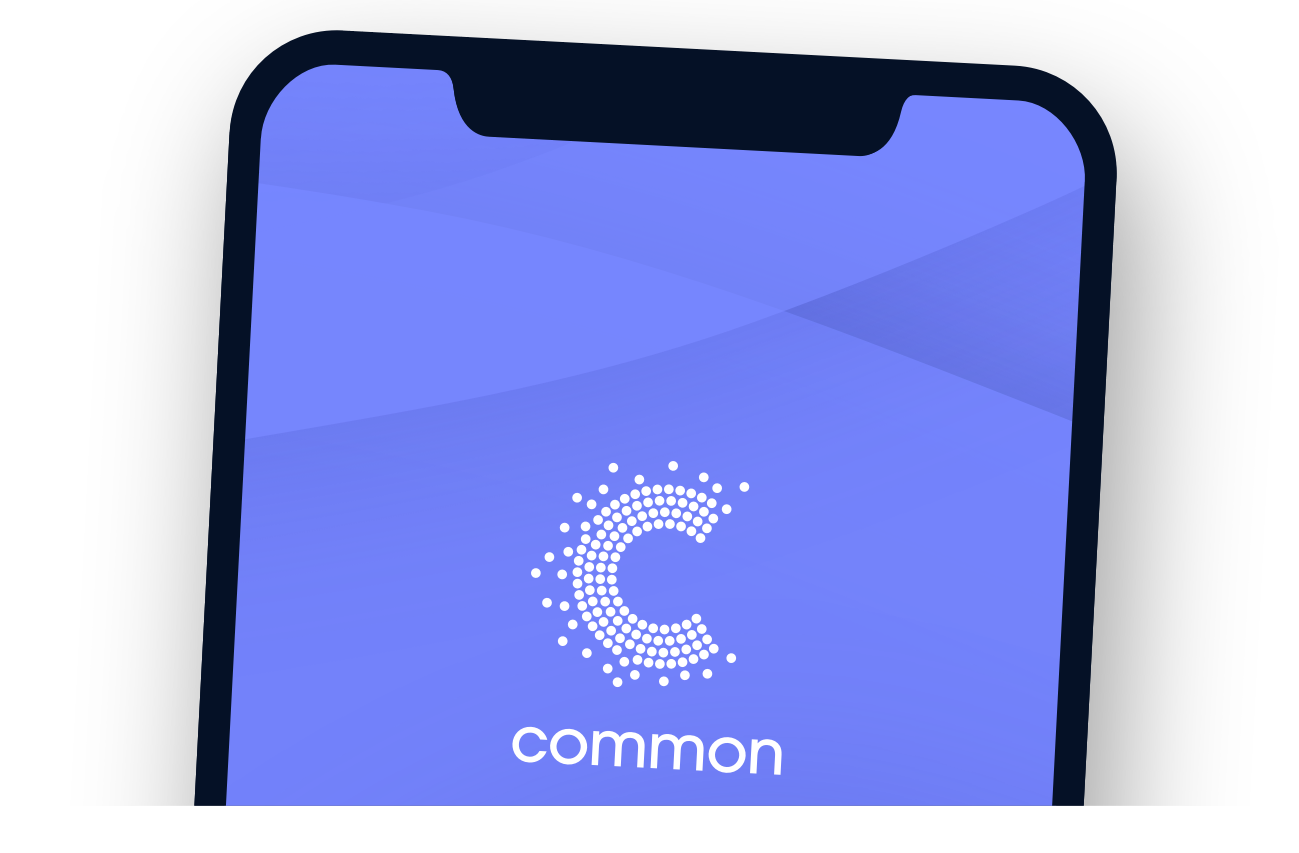
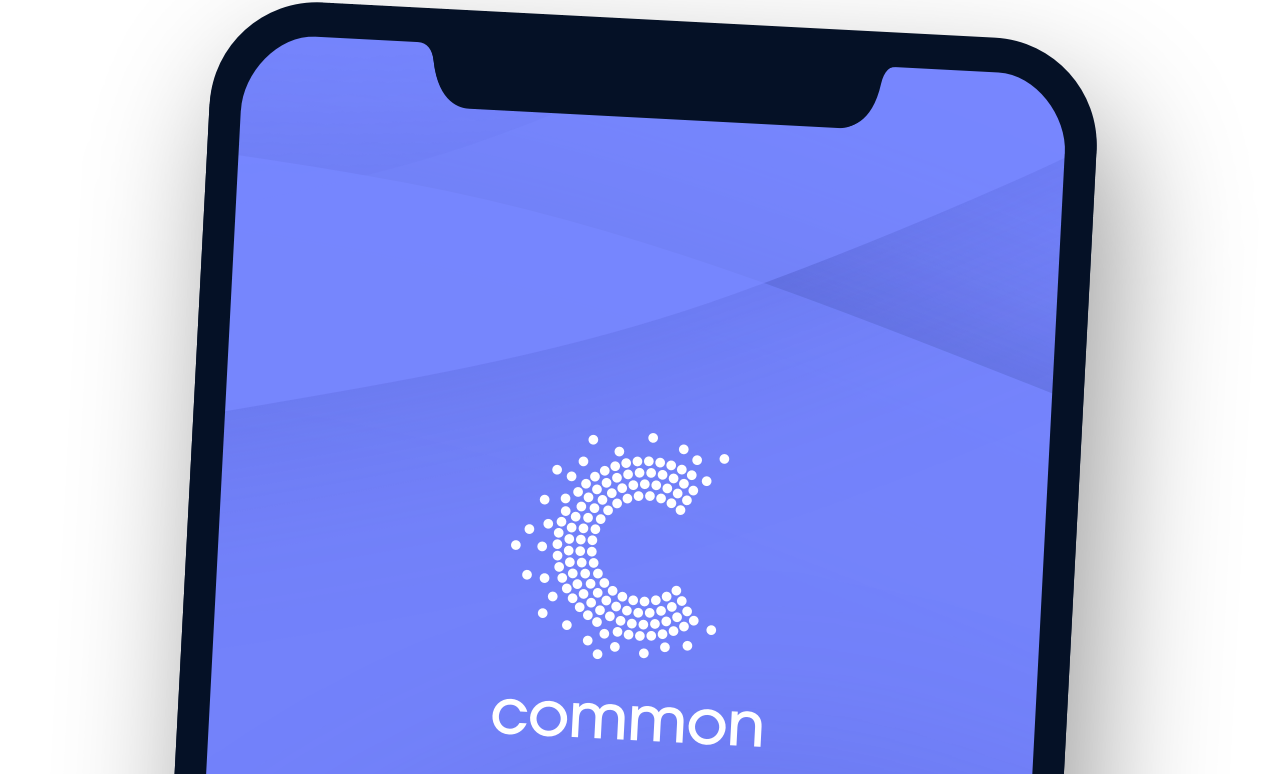
updates

Changed region(s): [[0.0927, 0.0, 0.8962, 1.0], [0.3399, 0.124, 0.6799, 0.186]]

diff --git a/packages/web/src/containers/Landing/containers/LandingContainer/LandingContainer.tsx b/packages/web/src/containers/Landing/containers/LandingContainer/LandingContainer.tsx
@@ -20,7 +20,7 @@ const LandingContainer = () => {
           <h1>
             Launch Collective Action. <br />
             <span className="pink-text">Catalyze a movement</span>
-            <br /> together.
+            <br /> Together.
           </h1>
           <div className="mobile-apps-wrapper">
             <div className="available-on-label">Available on</div>
@@ -44,21 +44,21 @@ const LandingContainer = () => {
         <div className="illustrations-wrapper">
           <div>
             <img src="assets/images/transparent.svg" alt="transparent" />
-            <h3>Transparent</h3>
+            <h2>Transparent</h2>
             <div>
               Commons are fully-transparent, <br /> including all decsions and funds.
             </div>
           </div>
           <div>
             <img src="assets/images/collective.svg" alt="collective" />
-            <h3>Collective</h3>
+            <h2>Collective</h2>
             <div>
               Declare a goal, pool funds, vote <br /> on decisions and expenses.
             </div>
           </div>
           <div>
             <img src="../../assets/images/action.svg" alt="action" />
-            <h3>Action</h3>
+            <h2>Action</h2>
             <div>
               Any member can propose <br /> projects and use shared funds.
             </div>
@@ -66,10 +66,10 @@ const LandingContainer = () => {
         </div>
       </section>
       <section className="goal-wrapper">
-        <img src="assets/images/iphone.png" alt="iphone" width="400px" />
+        <img src="assets/images/iphone.png" alt="iphone" className="half-iphone" />
         <div>
           <h1>
-            Leverage <span className="purple-text">trust</span> and <br />{" "}
+            Leverage <span className="purple-text">trust</span> and <br />
             <span className="purple-text">transparency</span> to galvanize <br /> massive action.
           </h1>
           <b>

diff --git a/packages/web/src/containers/Landing/containers/LandingContainer/index.scss b/packages/web/src/containers/Landing/containers/LandingContainer/index.scss
@@ -3,6 +3,7 @@
 .landing-wrapper {
   text-align: center;
   margin: -$content-padding; // to ignore parent content padding
+  color: $blue-text;
   > section {
     padding: $content-padding;
     > span {
@@ -73,6 +74,10 @@
     .purple-text {
       color: $purple;
     }
+    .half-iphone {
+      width: 400px;
+      margin-right: 30px;
+    }
   }
   .landing-bottom {
     background: url("/assets/images/wave-bottom.svg"), url("/assets/images/join.jpg");
@@ -125,7 +130,18 @@
       flex-direction: column;
     }
     .goal-wrapper {
+      margin-top: 50px;
       flex-direction: column-reverse;
+      background: url("/assets/images/goal-wave-top.svg");
+      background-position: 50% 0%;
+      background-size: contain;
+      background-repeat: no-repeat;
+      background-color: $light-purple;
+      padding-bottom: 0;
+      .half-iphone {
+        margin-top: 30px;
+        width: 350px;
+      }
     }
   }
 }

diff --git a/packages/web/src/containers/Landing/components/LandingContainer/ContactUs/ContactUs.tsx b/packages/web/src/containers/Landing/components/LandingContainer/ContactUs/ContactUs.tsx
@@ -18,7 +18,7 @@ export default function ContactUs() {
       <div className="form-wrapper">
         <input type="text" placeholder="Your Name" onChange={(e) => setName(e.target.value)} />
         <input type="email" placeholder="Your Email" onChange={(e) => setEmail(e.target.value)} />
-        <textarea placeholder="What's on your mind?" onChange={(e) => setDescription(e.target.value)} />
+        <textarea placeholder="Notes" onChange={(e) => setDescription(e.target.value)} />
         <button className="button-blue send" disabled={!name || !email || !description}>
           Send
         </button>

diff --git a/packages/web/src/shared/components/Footer/Footer.tsx b/packages/web/src/shared/components/Footer/Footer.tsx
@@ -8,7 +8,7 @@ const Footer = () => {
   return (
     <section className="footer-wrapper">
       <div className="footer-top">
-        <img src="/icons/logo-all-white.svg" alt="logo" width="120px" className="logo" />
+        <img src="/icons/logo-all-white.svg" alt="logo" className="logo" />
         <div className="links">
           <span>About</span>
           <span>Privacy Policy</span>

diff --git a/packages/web/src/containers/Landing/components/LandingContainer/Commons/index.scss b/packages/web/src/containers/Landing/components/LandingContainer/Commons/index.scss
@@ -14,9 +14,10 @@
     padding: 10px;
   }
   .explore-commons {
-    width: fit-content;
+    width: 250px;
     margin-top: 20px;
     line-height: 40px;
+    padding: 5px;
   }
 }
 
@@ -35,6 +36,9 @@
       overflow-x: auto;
       overflow-y: hidden;
       width: 100vw;
+    }
+    .explore-commons {
+      width: 100%;
     }
   }
 }

diff --git a/packages/web/src/index.scss b/packages/web/src/index.scss
@@ -38,7 +38,6 @@ body {
 
     .button-blue {
       height: 40px;
-      padding: 8px 32px;
       border-radius: 30.5px;
       background-color: $purple;
       border: none;
@@ -72,6 +71,7 @@ body {
       outline: none;
     }
   }
+  h2,
   h1 {
     font-family: NotoSerifSC-Black;
   }

diff --git a/packages/web/src/constants.scss b/packages/web/src/constants.scss
@@ -19,6 +19,7 @@ $white: #ffffff;
 $pink: #ff5e9d;
 $blue: #0b2046;
 $deep-blue: #071836;
+$blue-text: #0a2149;
 
 /* breakpoints */
 $small-screen: 1240px;

diff --git a/packages/web/src/shared/components/Footer/index.scss b/packages/web/src/shared/components/Footer/index.scss
@@ -10,6 +10,7 @@
     .logo {
       margin-right: auto;
       margin-bottom: auto;
+      width: 120px;
     }
     .links {
       display: grid;
